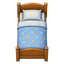
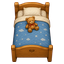
fix(orphanage): apply new prop/base rule, prop count 14→5 [prompt:034]
Same redo as 033 office, applied to orphanage.

Prop changes:
- props: bed×2, bookshelf, table, christmas-tree, door (5 distinct, 6
  placements counting 2 beds)
- bookshelf has integrated colorful book spines on shelves (single PNG)
- christmas-tree has integrated red+gold ornaments + star (single PNG)
- table has integrated book/notebook on top
- bed has integrated stuffed bear

Removed 9 small props now baked into base:
toy, small-chair, plant, book, ball, teddy, crayon-box, window-frame,
blackboard

Base now contains:
- '育幼院' wooden sign on top wall
- blackboard with chalk drawings on top wall
- 2 framed windows on top wall
- colorful kids' area rug at floor center
- scattered plush ball + plant + toys on floor
- subtle wood plank seams

Verified by Claude:
- 5 props residue = 0 each
- spawn (7,8) walkable, trigger (7,9) walkable
- typecheck + build pass
- Visual preview reads as a real cozy kids' room

diff --git a/codex-prompts/034-orphanage-redo-v3.md b/codex-prompts/034-orphanage-redo-v3.md
@@ -1,0 +1,193 @@
+# Codex Prompt 034 — Orphanage redo v3:套新 prop/base 準則
+
+STATUS: done
+SKILL: $generate2dmap + $generate2dsprite + Pillow + view_image
+依賴:033 完成(office v3 已驗,新準則奏效)
+產出(覆蓋既有):
+- `public/maps/orphanage-base.png`(含 toy/blackboard/小物件 等裝飾,**只缺幾個 prop**)
+- `public/maps/orphanage-dressed-reference.png`
+- `public/props/orphanage/{bed,bookshelf,table,christmas-tree,door}.png`(只 5 個 props)
+- `public/maps/orphanage-layered-preview.png`
+- `src/content/maps/orphanage.json`(props 列表 5 個 entries 或更少)
+
+刪除:`public/props/orphanage/{toy,small-chair,plant,book,ball,teddy,crayon-box,window-frame,blackboard}.png`(9 個畫進 base)
+
+不動:office / obo / pub / set / portrait / sprite
+
+---
+
+## 為什麼
+
+跟 033 office redo 一樣的新準則:只把高 / 可互動的東西做成 prop。029 orphanage redo 有 14 個 prop 太多,玩具/書/球/泰迪/蠟筆/小椅子/盆栽/窗框/黑板都該畫進 base。
+
+---
+
+## Pipeline(同 033 模板)
+
+### Step 1 — base.png(含所有裝飾)
+
+```
+Use $generate2dmap baked_raster to create a CLEAN HD top-down 2D RPG
+small Taiwanese orphanage common-room BASE map. Layered raster pipeline.
+
+map_kind: town
+visual_model: baked_raster
+art_style: clean_hd
+size: 448x320 px
+perspective: top-down 45°
+
+This base IS NOT EMPTY — include all visually decorative content but
+EXCLUDE the 5 high/interactive props (2 beds, bookshelf, table,
+christmas-tree, door).
+
+Layout (typical kids' room):
+- top wall: pastel cream wall with 2 small framed windows and a wooden
+  blackboard with chalk drawings centered
+- left/right walls: same pastel walls
+- bottom wall: doorway centered around col 6-7
+- interior floor: continuous warm wood plank
+
+INCLUDE in base (visual decoration, NOT separate props):
+- a colorful round area rug with kids' pattern at floor center (around
+  col 5-9, row 4-6)
+- scattered toys on the floor (a teddy bear, a ball, a toy car) —
+  drawn flat into the base
+- a small potted plant in a corner
+- crayon box and a single book on the floor near the table area
+- a small "育幼院" wooden sign on the top wall
+- subtle floor seams
+
+EXCLUDE (will be props):
+- 2 kids' beds (will be props)
+- short bookshelf (will be a prop)
+- low kids' table (will be a prop)
+- christmas tree (will be a prop)
+- door panel (will be a prop)
+- DO NOT draw shadows or imprints of these absent items
+
+Composition: typical orphanage common room — beds along upper-left
+(empty around col 1-5 rows 1-2), bookshelf along left wall (empty col
+1-2 rows 6-7), table in right-center (empty col 7-9 rows 4-5),
+christmas tree in upper-right corner (empty col 11-12 rows 1-2).
+
+No characters, NPCs, text/UI/watermark.
+
+Output: public/maps/orphanage-base.png, 448x320 RGB opaque.
+```
+
+跑完 Pillow 量 doorway col(bottom strip)→ `door_col`。
+
+### Step 2 — dressed reference
+
+```
+Use the image just shown (orphanage-base.png) as the EXACT base reference.
+
+Create a dressed-reference version by adding ONLY the 5 missing props:
+- 2 kids' beds (each 2x2) along the upper area, wooden frame with blue/
+  pink blanket and pillow
+- a short kids' bookshelf (2x2) along left wall, books with colorful
+  spines INTEGRATED on shelves
+- a low wooden kids' table (2x1) in right-center area, with INTEGRATED
+  surface details (a single book or notebook)
+- a decorated christmas tree (2x2) in upper-right corner, with red+gold
+  ornaments and a star INTEGRATED
+- a closed wooden door (1x1) at the bottom doorway
+
+Preserve exactly: camera, framing, image size (448x320), terrain, walls,
+doorway position, the rug + scattered floor toys + plant + sign + window
++ blackboard from the base.
+
+Style: same clean HD as base.
+
+No additional clutter, no NPCs, no text/UI/watermark.
+
+Output: public/maps/orphanage-dressed-reference.png, 448x320.
+```
+
+view_image 後寫 5 個 prop 在 (col, row) 進 JOURNAL。
+
+### Step 3 — 5 large one-by-one
+
+| prop | spec | cell-size |
+|---|---|---|
+| bed | small wooden kids' bed with blanket and pillow, integrated stuffed bear on top, 2x2 | 256 |
+| bookshelf | short wooden bookshelf with INTEGRATED colorful book spines on shelves, 2x2 | 256 |
+| table | low wooden kids' table with INTEGRATED book/notebook on top, 2x1 | 192 |
+| christmas-tree | green christmas tree WITH INTEGRATED red+gold ornaments and star on top, 2x2 | 256 |
+| door | closed wooden door with brass handle, 1x1 | 128 |
+
+每張 chroma-key + extract reject-edge-touch。
+
+### Step 4 — 廢檔
+
+```bash
+rm public/props/orphanage/toy.png
+rm public/props/orphanage/small-chair.png
+rm public/props/orphanage/plant.png
+rm public/props/orphanage/book.png
+rm public/props/orphanage/ball.png
+rm public/props/orphanage/teddy.png
+rm public/props/orphanage/crayon-box.png
+rm public/props/orphanage/window-frame.png
+rm public/props/orphanage/blackboard.png
+```
+
+### Step 5 — alpha residue 5 props < 50
+
+### Step 6 — orphanage.json(props 6 個:2 床 + 1 櫃 + 1 桌 + 1 樹 + 1 門)
+
+```json
+{
+  "id": "orphanage",
+  ...
+  "baseUrl": "/maps/orphanage-base.png",
+  "props": [
+    { "id": "bed1", "url": "/props/orphanage/bed.png", "x": <>, "y": <>, "collision": {...2x2} },
+    { "id": "bed2", "url": "/props/orphanage/bed.png", "x": <>, "y": <>, "collision": {...2x2} },
+    { "id": "bookshelf", "url": "/props/orphanage/bookshelf.png", "x": <>, "y": <>, "collision": {...2x2} },
+    { "id": "table", "url": "/props/orphanage/table.png", "x": <>, "y": <>, "collision": {...2x1} },
+    { "id": "christmas-tree", "url": "/props/orphanage/christmas-tree.png", "x": <>, "y": <>, "collision": {...2x2} },
+    { "id": "door", "url": "/props/orphanage/door.png", "x": <door_col>, "y": 9 }
+  ],
+  ...
+  "triggers": [
+    { "id": "orphanage.exit", "x": <door_col>, "y": 9, "eventId": "orphanage-exit-stub", "autoFire": false }
+  ],
+  "spawns": { "player": { "x": <door_col>, "y": 8, "facing": "up" } }
+}
+```
+
+collision 從 prop union + 牆推導。spawn / trigger walkable。
+
+### Step 7 — preview
+
+`compose_layered_preview.py` → `orphanage-layered-preview.png`
+
+### Step 8 — typecheck/build pass
+
+---
+
+## Acceptance
+
+1. base.png 含 rug/玩具散落/盆栽/招牌/牆飾/黑板/窗 (視覺 only)
+2. dressed-reference 加 5 個 props
+3. 5 props residue=0
+4. 9 個舊小 prop 已刪
+5. orphanage.json props ≤ 6 項(2 床算 2 entry)
+6. preview 視覺合理(如真實兒童房)
+7. spawn/trigger walkable + path 通
+8. typecheck + build pass
+
+## Verified output(JOURNAL)
+
+(同 033 standard)
+
+## 完成後
+
+STATUS: pending → ready-for-commit / blocked。不要 git commit/push。
+
+## 不要做
+
+- 不要動 office/obo/pub/set
+- 不要動 portrait/sprite
+- 不要 retro_pixel

diff --git a/JOURNAL.md b/JOURNAL.md
@@ -28,6 +28,78 @@
 - **Decisions made**:(若有 deviation,列出 — 由 Claude review 是否認可)
 ```
 
+## 2026-05-01 09:56 — codex-prompt 034 orphanage-redo-v3
+
+- **STATUS**: ready-for-commit
+- **Commits**: pending Claude
+- **Files changed**:
+  - ~ public/maps/orphanage-base.png
+  - ~ public/maps/orphanage-dressed-reference.png
+  - ~ public/maps/orphanage-layered-preview.png
+  - ~ public/props/orphanage/bed.png
+  - ~ public/props/orphanage/bookshelf.png
+  - ~ public/props/orphanage/table.png
+  - ~ public/props/orphanage/christmas-tree.png
+  - ~ public/props/orphanage/door.png
+  - - public/props/orphanage/toy.png
+  - - public/props/orphanage/small-chair.png
+  - - public/props/orphanage/plant.png
+  - - public/props/orphanage/book.png
+  - - public/props/orphanage/ball.png
+  - - public/props/orphanage/teddy.png
+  - - public/props/orphanage/crayon-box.png
+  - - public/props/orphanage/window-frame.png
+  - - public/props/orphanage/blackboard.png
+  - ~ src/content/maps/orphanage.json
+  - ~ codex-prompts/034-orphanage-redo-v3.md
+  - ~ JOURNAL.md
+- **Self-check**:
+  - typecheck: n/a (sandbox; `pnpm typecheck && pnpm build` hit corepack EPERM on `/Users/hubert/.cache/node/corepack/lastKnownGood.json`)
+  - lint: n/a (not requested)
+  - dev server boot: n/a (not requested)
+  - build: n/a (sandbox; same corepack EPERM)
+  - json parse: pass (`python3 -m json.tool src/content/maps/orphanage.json`)
+  - image assertions: pass (Pillow size/mode, prop residue, edge-touch, deletion list, preview composition, collision union, walkability)
+- **Verified output**:
+  1. Step 1 base map:
+     - `public/maps/orphanage-base.png`: Pillow size `(448, 320)`, mode `RGB`.
+     - view_image: clean HD top-down orphanage room with pastel walls, warm wood floor, two top-wall windows, centered chalk blackboard, `育幼院` sign, round kids rug, floor toys (teddy, ball, toy car), corner plant, crayon box and book. Bed/bookshelf/table/tree/door areas are left empty with no prop shadows.
+     - Bottom doorway visual center measured at about `x=224px`; using `door_col=7` for the 1x1 bottom door, trigger, and player spawn alignment.
+  2. Step 2 dressed reference:
+     - `public/maps/orphanage-dressed-reference.png`: Pillow size `(448, 320)`, mode `RGB`.
+     - view_image placement matrix:
+       - bed 1: upper-left, around `(col 1,row 2)`, small kid bed with blue blanket.
+       - bed 2: upper-left/center-left, around `(col 4,row 2)`, small kid bed with pink blanket.
+       - bookshelf: left wall/lower-left, around `(col 1,row 5)`, short shelf with colorful books.
+       - table: right-center, around `(col 8,row 4)`, low wooden table with a book on top.
+       - christmas-tree: upper-right, around `(col 11,row 1)`, decorated tree with ornaments and star.
+       - door: bottom doorway, around `(col 7,row 9)`, closed wooden door panel.
+  3. Steps 3 and 5 prop generation and residue:
+     - `bed.png`: Pillow size `(64, 64)`, content bbox `(11, 2, 53, 62)`, magenta residue `0`, opaque edge pixels `0`; view_image contact sheet shows one wooden kids bed with blue blanket, pillow, and stuffed bear integrated on top.
+     - `bookshelf.png`: Pillow size `(64, 80)`, content bbox `(3, 7, 61, 77)`, magenta residue `0`, opaque edge pixels `0`; view_image contact sheet shows a short wooden bookshelf with colorful integrated book spines and lower drawers.
+     - `table.png`: Pillow size `(64, 32)`, content bbox `(8, 2, 56, 30)`, magenta residue `0`, opaque edge pixels `0`; view_image contact sheet shows a low wooden kids table with a single book/notebook integrated on the tabletop.
+     - `christmas-tree.png`: Pillow size `(64, 80)`, content bbox `(6, 2, 57, 78)`, magenta residue `0`, opaque edge pixels `0`; view_image contact sheet shows a green christmas tree with red/gold ornaments and a star.
+     - `door.png`: Pillow size `(32, 32)`, content bbox `(8, 1, 24, 31)`, magenta residue `0`, opaque edge pixels `0`; view_image contact sheet shows a closed wooden door with brass handle.
+  4. Step 4 deletion:
+     - Confirmed deleted by shell `test ! -e` equivalent check: `toy.png`, `small-chair.png`, `plant.png`, `book.png`, `ball.png`, `teddy.png`, `crayon-box.png`, `window-frame.png`, `blackboard.png`.
+     - `find public/props/orphanage -maxdepth 1 -type f` now returns only `bed.png`, `bookshelf.png`, `christmas-tree.png`, `door.png`, `table.png`.
+  5. Step 6 `orphanage.json`:
+     - `json.tool` parse passed.
+     - `props` list is exactly `["bed1", "bed2", "bookshelf", "table", "christmas-tree", "door"]`.
+     - Placements/collision: bed1 `(x=1,y=2)` collision `{x:1,y:2,w:2,h:2}`; bed2 `(x=4,y=2)` collision `{x:4,y:2,w:2,h:2}`; bookshelf `(x=1,y=5)` collision `{x:1,y:5,w:2,h:2}`; table `(x=8,y=4)` collision `{x:8,y:4,w:2,h:1}`; christmas-tree `(x=11,y=1)` collision `{x:11,y:1,w:2,h:2}`; door `(x=7,y=9)`.
+     - Collision matrix is `10` rows x `14` cols and matches wall + prop-collision union with doorway tile `(7,9)` left walkable.
+     - Spawn `{x:7,y:8,facing:"up"}` and trigger `{x:7,y:9,eventId:"orphanage-exit-stub",autoFire:false}` are walkable.
+     - BFS path from spawn to trigger passed: `(7,8) -> (7,9)`.
+  6. Step 7 composed preview:
+     - `public/maps/orphanage-layered-preview.png`: Pillow size `(448, 320)`, mode `RGBA`.
+     - view_image: preview reads as a typical children/orphanage room, with two beds along the upper-left, bookshelf on the left wall, table right of the rug, decorated christmas tree in the upper-right, and a closed door aligned to the bottom doorway. Rug, toys, plant, windows, sign, blackboard, crayons, and floor book remain baked into the base; no old small prop layer or visible magenta remains.
+  7. Step 8 typecheck/build:
+     - `pnpm typecheck && pnpm build`: not runnable in this sandbox; command failed immediately with `Internal Error: EPERM: operation not permitted, open '/Users/hubert/.cache/node/corepack/lastKnownGood.json'`.
+     - Per AGENTS sandbox rules, build/typecheck is deferred to Claude and was not retried.
+- **Notes**: Executed orphanage redo v3 only. Did not modify office/obo/pub/set, portraits, or sprites. Used image generation for base/dressed/props and Pillow for RGB resize, chroma-key cleanup, final prop canvas placement, measurement, and preview verification.
+- **BLOCKER**: none
+- **Decisions made**: Used a 32x32 door prop at `y=9` to satisfy the prompt's 1x1 bottom-door placement without preview clipping.
+
 ## 2026-05-01 09:39 — codex-prompt 033 office-redo-v3-design-rules
 
 - **STATUS**: ready-for-commit
